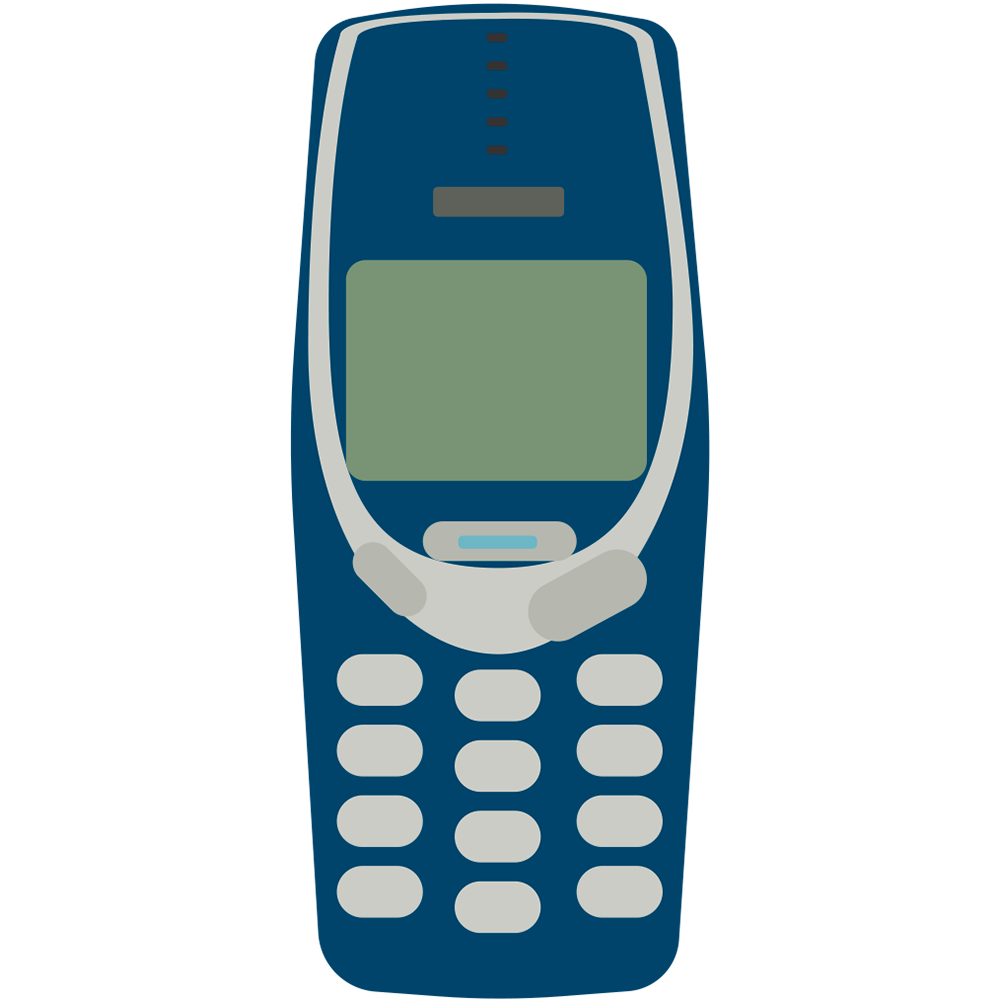
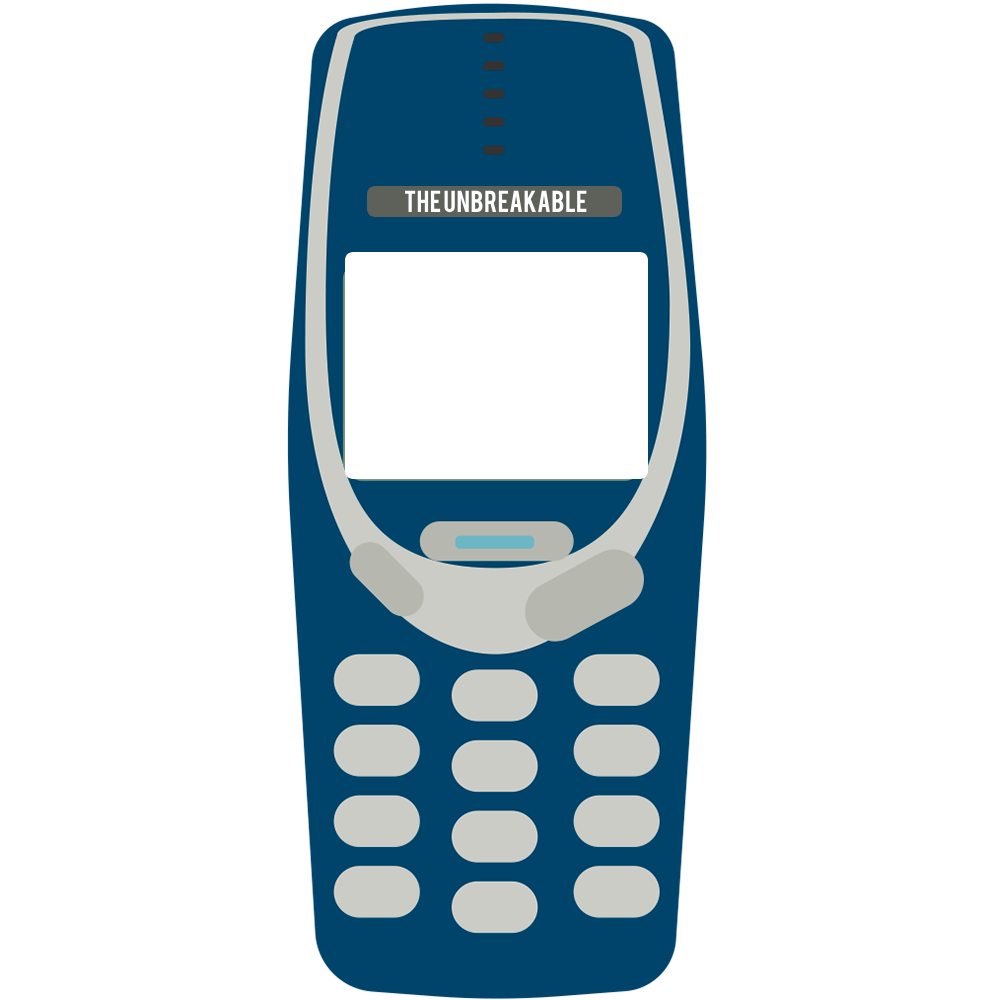
added an easter egg on the smallest resolution available

diff --git a/index.css b/index.css
@@ -215,18 +215,40 @@ body {
     }
 
     @media only screen and (max-width: 370px) {
-        body {
-        background-image: url(iphone6.png);
-        background-color: black;
-        }
         .getitnow{
             position: absolute;
             color: white;
-            margin-top: 42em;
-            margin-left: 17%;
+            margin-top: 35em;
+            margin-left: 3em;
             padding-top: 4em;
             transition: 0.6s;
             text-align: center;
+        }
+        .centeredcontent {
+            margin-left: 75px;
+        }
+        .iphonebackground {
+            background-image: url(nokia3310.png);
+            background-repeat: no-repeat;
+            background-size: 37em;
+        }
+        #apptitle {
+            font-size: 21px;
+            margin-top: 61px;
+        }
+        .inputactivity {
+            width: 10em;
+            height: 1em;
+        }
+        .inputactivity::placeholder {
+            font-size: 8px;
+        }
+        .buttonactivity {
+            font-size: 10px;
+            margin-left: -30px;
+        }
+        .container-activities {
+            font-size: 8px;
         }
         .downloadbutton {
             height: 2em;
